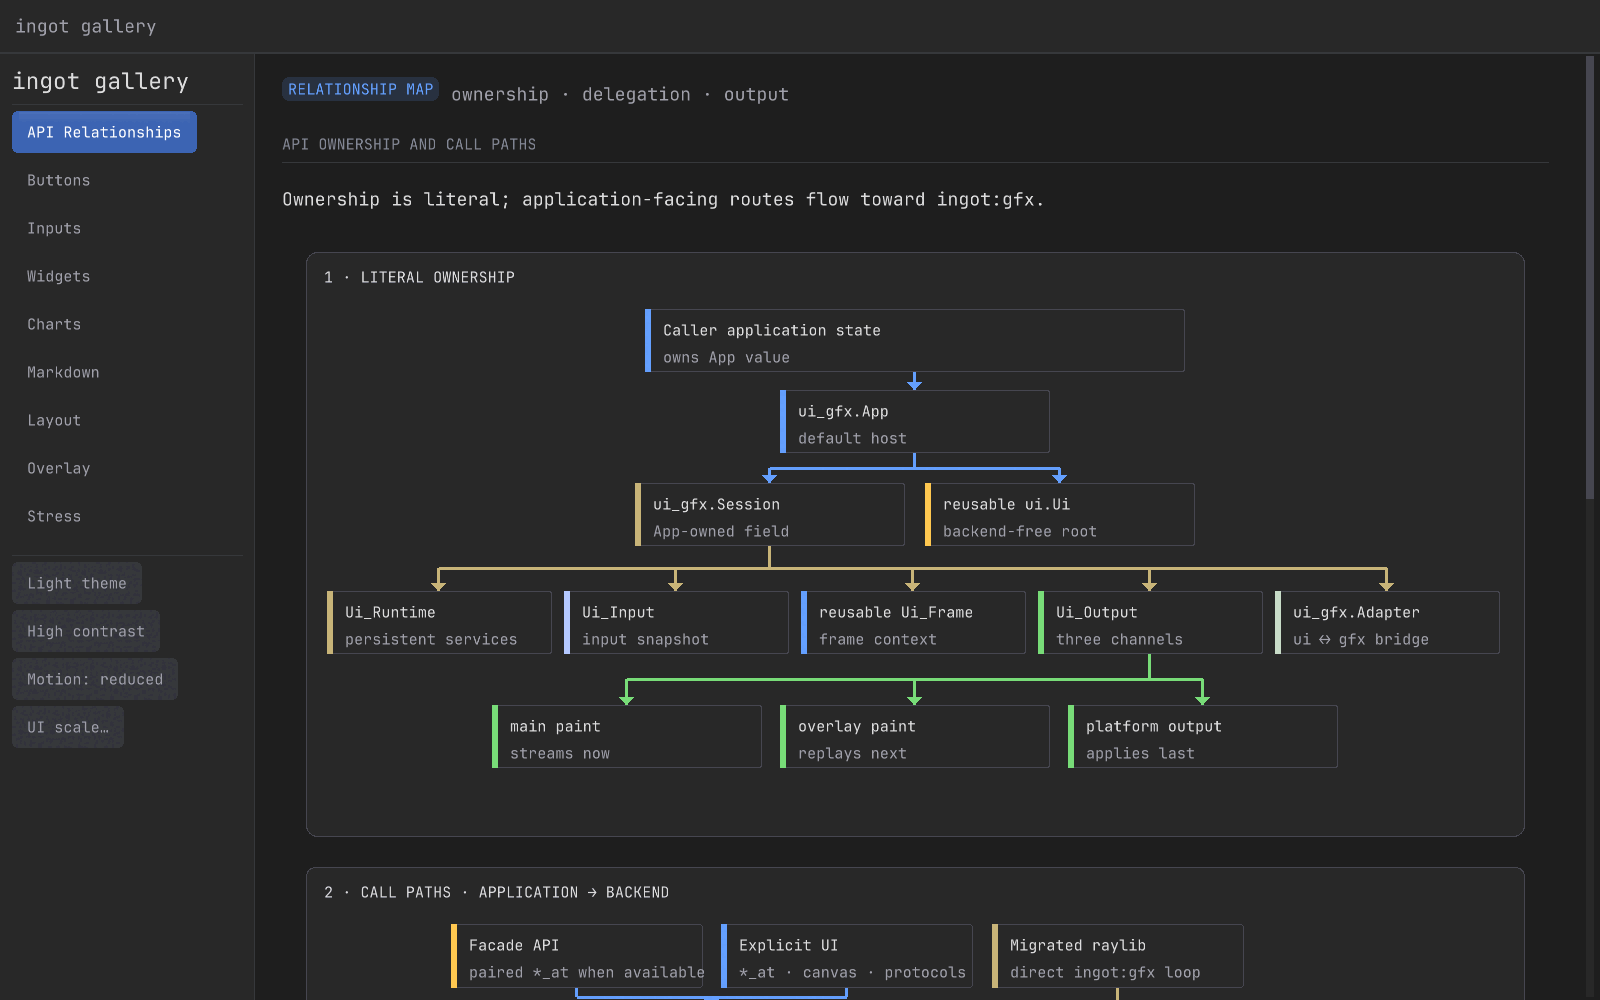
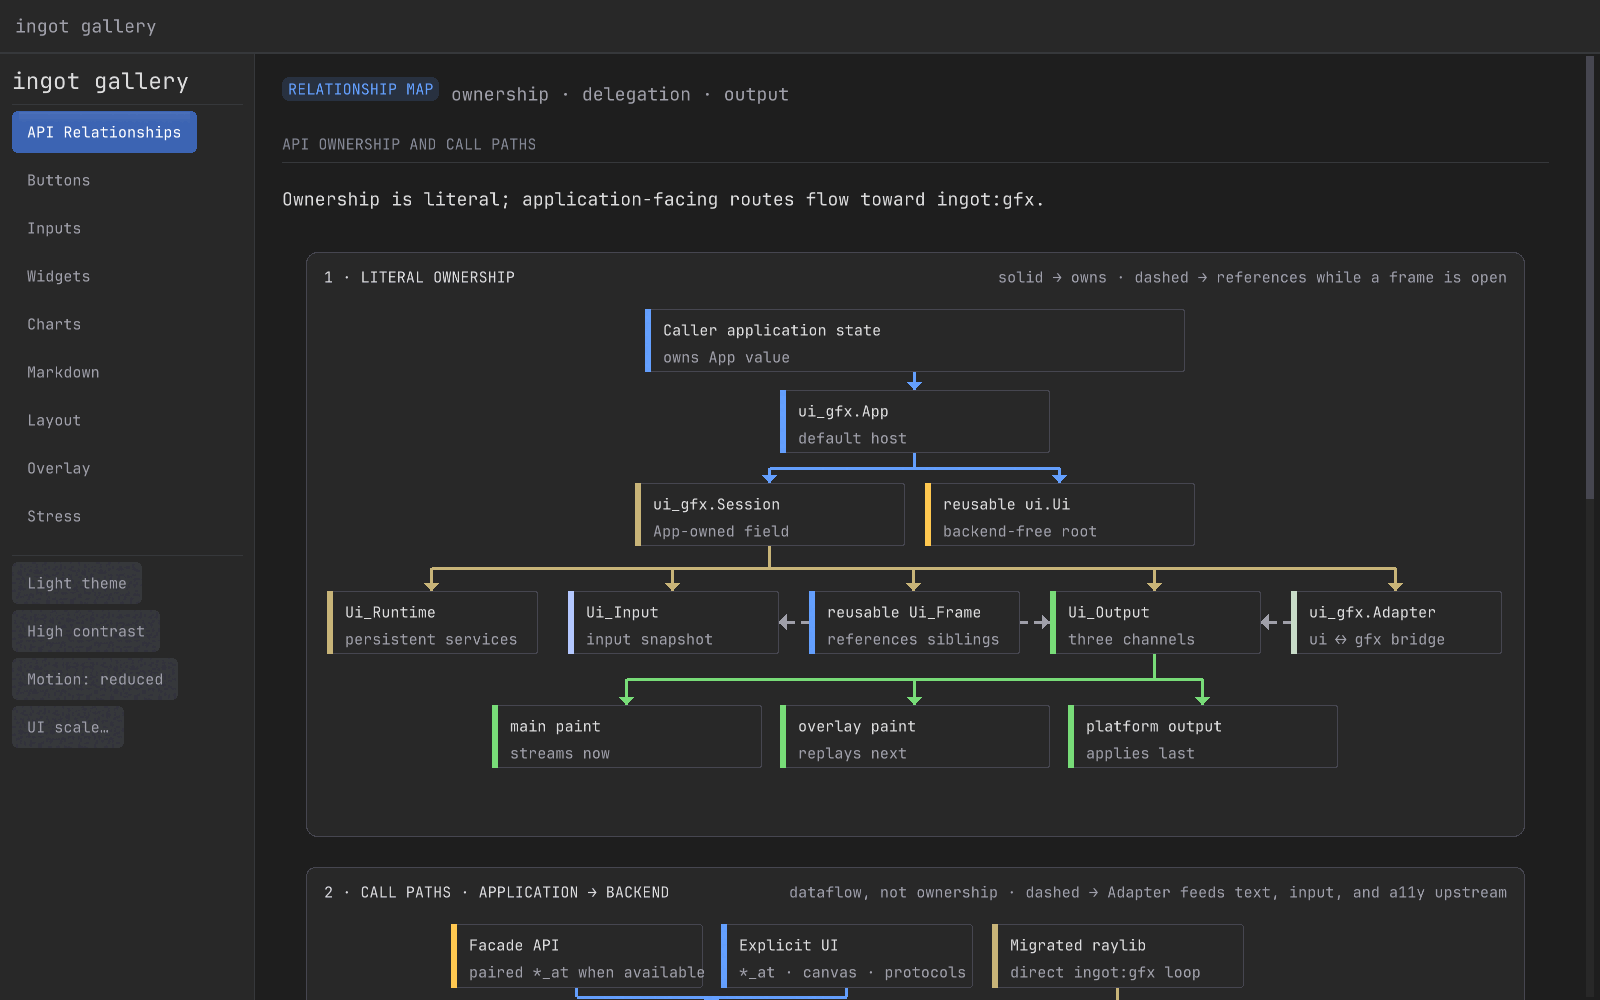
docs: clarify API ownership and frame-time references
Add dashed reference edges and legends to the API relationship diagrams. Refactor call-path layout calculations and refresh gallery media.

diff --git a/docs/api-layers.md b/docs/api-layers.md
@@ -33,7 +33,17 @@ flowchart TB
     OUTPUT --> MAIN[main paint]
     OUTPUT --> OVERLAY[overlay paint]
     OUTPUT --> PLATFORM[platform output]
+    FRAME -.->|references while open| RUNTIME
+    FRAME -.->|references while open| INPUT
+    FRAME -.->|references while open| OUTPUT
+    ADAPTER -.->|consumes without owning| OUTPUT
 ```
+
+Solid edges are ownership (struct fields); dashed edges are frame-time
+references. The five Session members are siblings — `Ui_Output` does not live
+inside `Ui_Frame`, and `Adapter` does not own the output it consumes. While a
+frame is open, `Ui_Frame` borrows the Session-owned runtime, input, and output;
+the call-path diagram below shows that same relationship as dataflow.
 
 The ownership tree is literal. `App` contains `Session` and its reusable `Ui`
 form as sibling fields. `Session` contains five peer fields: the runtime,
